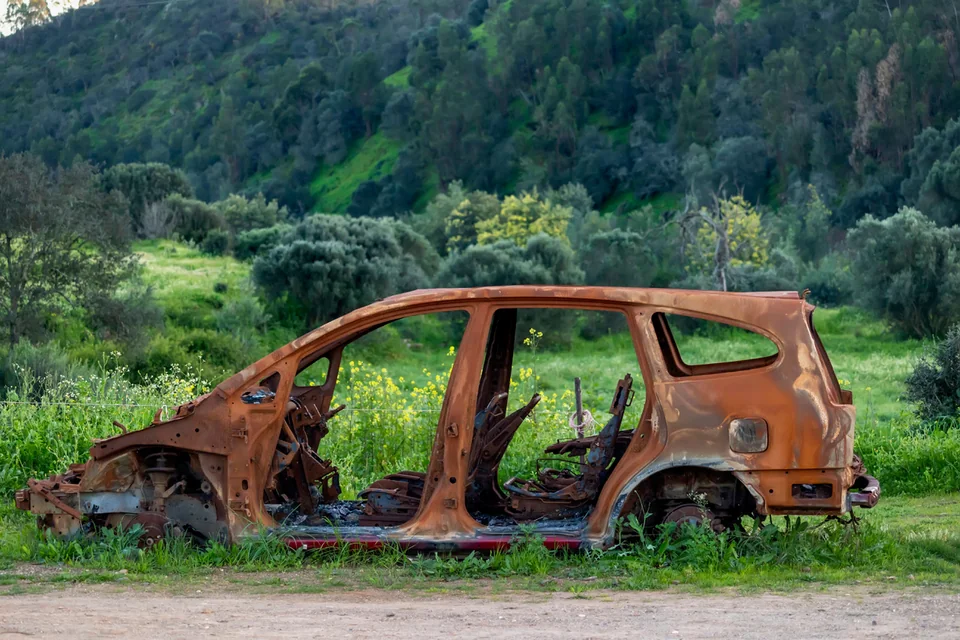
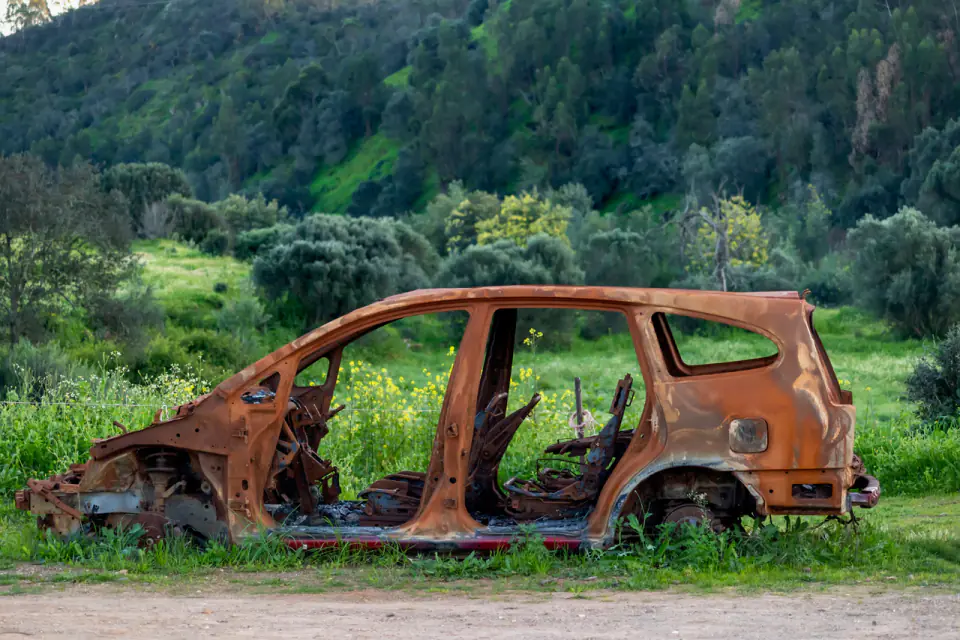
Improve internal linking, clean outbound links and compress covers
- Article content supports links to site pages, opened in the same tab
- Each article gets a "Czytaj też" cross-link to a related article; the
  RODO article links the ebook
- The ebook is linked from the data protection category and the AI/RODO
  practice card
- Remove utm_source=chatgpt.com from sources and tracking parameters
  from the TikTok link
- Clearer practice page title
- Re-encode article cover WebP variants from sRGB-converted originals
  (1647 KB -> 1072 KB, same dimensions and colours); the portrait and
  original JPEGs are unchanged
- Tests cover internal links, ebook links and tracking parameters

Changed region(s): [[0.1562, 0.5938, 0.2188, 0.625]]

diff --git a/src/App.tsx b/src/App.tsx
@@ -100,8 +100,9 @@ const ServicesPage = () => <PageShell><section className="px-5 pb-24 pt-36 md:px
 
 const PracticePage = () => <PageShell><section className="px-5 pb-24 pt-36 md:px-8"><div className="relative selection-boundary mx-auto max-w-7xl"><SectionHeading eyebrow="Praktyka" title="Obszary, w których działam">Każda sprawa jest analizowana indywidualnie, z uwzględnieniem jej celu, ryzyka i dokumentów.</SectionHeading><div className="grid gap-4 md:grid-cols-2 xl:grid-cols-3">{practiceAreas.map((area, index) => {
   const Icon = area.icon;
-  const content = practiceContent[area.slug as keyof typeof practiceContent];
+  const content = practiceContent[area.slug];
   const category = content.category ? findCategoryByName(content.category) : undefined;
+  const ebook = ebooks.find(item => item.id === content.ebookId);
   return <article id={area.slug} key={area.title} style={entranceStyle(index * 0.06)} className={`page-enter relative selection-boundary scroll-mt-28 grid min-h-60 gap-y-0 border p-7 md:row-span-6 md:grid-rows-subgrid ${index === 0 ? 'border-[#ebc256] bg-[#ebc256] text-[#111113]' : 'border-white/10 bg-[#1a1a1e] text-white'}`}>
     <Icon className="h-9 w-9" strokeWidth={1.7} />
     <p className={`mb-3 mt-8 text-xs font-black uppercase ${index === 0 ? 'text-[#111113]/60' : 'text-[#ebc256]'}`}>0{index + 1}</p>
@@ -113,6 +114,7 @@ const PracticePage = () => <PageShell><section className="px-5 pb-24 pt-36 md:px
     <div className="mt-6 flex flex-wrap content-start items-start gap-x-5 gap-y-3 text-xs font-black uppercase">
       <a href={servicesEnabled ? '/uslugi/' : mailto(`Zapytanie: ${area.title}`)} className="underline underline-offset-4">{servicesEnabled ? 'Zakres usług' : 'Opisz swoją sprawę'}</a>
       {category && <a href={categoryPath(category)} className="underline underline-offset-4">Artykuły i przykłady</a>}
+      {ebook && <a href={ebookPath(ebook)} className="underline underline-offset-4">E-book o RODO</a>}
     </div>
   </article>;
 })}</div></div></section></PageShell>;
@@ -147,17 +149,20 @@ const BlogPage = ({ category }: { category?: BlogCategory }) => {
     window.history.pushState(null, '', href);
     window.dispatchEvent(new PopStateEvent('popstate'));
   };
-  return <PageShell><section className="px-5 pb-24 pt-36 md:px-8"><div className="relative selection-boundary mx-auto max-w-7xl"><SectionHeading eyebrow="Blog" title={category?.name || "Prawo w życiu codziennym"}>{category && <div className="space-y-4">{category.paragraphs.map(paragraph => <p key={paragraph}>{paragraph}</p>)}</div>}</SectionHeading><div className="mb-12 border-y border-white/10 py-5"><p className="mb-4 text-[10px] font-black uppercase text-[#77777f]">Wybierz obszar</p><div className="grid gap-2 sm:grid-cols-2 lg:grid-cols-3" aria-label="Kategorie artykułów">{blogCategories.map((category, index) => { const count = category === 'Wszystkie' ? blogPosts.length : blogPosts.filter((post) => post.category === category).length; const active = category === activeCategory; return <a key={category} data-blog-category={category} href={category === 'Wszystkie' ? '/blog/' : categoryPath(findCategoryByName(category)!)} aria-current={active ? 'page' : undefined} onClick={event => {
+  return <PageShell><section className="px-5 pb-24 pt-36 md:px-8"><div className="relative selection-boundary mx-auto max-w-7xl"><SectionHeading eyebrow="Blog" title={category?.name || "Prawo w życiu codziennym"}>{category && <div className="space-y-4">{category.paragraphs.map(paragraph => <p key={paragraph}>{paragraph}</p>)}{ebooks.filter(ebook => ebook.blogCategory === category.name).map(ebook => <p key={ebook.id}><a href={ebookPath(ebook)} className="inline-flex items-center gap-2 font-bold text-[#ebc256] underline underline-offset-4 hover:text-white">E-book: {ebook.title}<ArrowRight className="h-4 w-4 shrink-0" /></a></p>)}</div>}</SectionHeading><div className="mb-12 border-y border-white/10 py-5"><p className="mb-4 text-[10px] font-black uppercase text-[#77777f]">Wybierz obszar</p><div className="grid gap-2 sm:grid-cols-2 lg:grid-cols-3" aria-label="Kategorie artykułów">{blogCategories.map((category, index) => { const count = category === 'Wszystkie' ? blogPosts.length : blogPosts.filter((post) => post.category === category).length; const active = category === activeCategory; return <a key={category} data-blog-category={category} href={category === 'Wszystkie' ? '/blog/' : categoryPath(findCategoryByName(category)!)} aria-current={active ? 'page' : undefined} onClick={event => {
       if (event.button !== 0 || event.metaKey || event.ctrlKey || event.shiftKey || event.altKey) return;
       event.preventDefault();
       selectCategory(category);
     }} className={`group grid min-h-14 w-full grid-cols-[2rem_1fr_2rem] items-center gap-3 border px-4 py-3 text-left transition-colors ${active ? 'border-[#ebc256] bg-[#ebc256] text-[#111113]' : 'border-white/10 bg-[#17171a] text-white hover:border-[#ebc256]'}`}><span className={`text-[10px] font-black ${active ? 'text-[#111113]/55' : 'text-[#ebc256]'}`}>{String(index + 1).padStart(2, '0')}</span><span className="text-xs font-black uppercase leading-snug">{category}</span><span className={`flex h-7 w-7 items-center justify-center text-[10px] font-black ${active ? 'bg-[#111113] text-white' : 'bg-white/10 text-[#b7b7bd]'}`}>{count}</span></a>; })}</div></div><motion.p layout className="mb-5 text-sm text-[#8f8f96]">{visiblePosts.length} {articleWord(visiblePosts.length)} w kategorii <strong className="text-white">{activeCategory.toLowerCase()}</strong></motion.p><motion.div layout className="grid gap-5 md:grid-cols-2 xl:grid-cols-3"><AnimatePresence mode="popLayout" initial={false}>{visiblePosts.map((post) => <motion.article layout key={post.slug} initial={{ opacity: 0, y: 18 }} animate={{ opacity: 1, y: 0 }} exit={{ opacity: 0, scale: 0.97 }} transition={{ duration: reduceMotion ? 0 : 0.28 }}><BlogCard post={post} /></motion.article>)}</AnimatePresence></motion.div></div></section></PageShell>;
 };
 
-const renderInline = (text: string) => text.split(/(\*\*.*?\*\*|\[[^\]]+\]\(https?:\/\/[^)]+\)|\*[^*\n]+\*)/g).map((part, index) => {
+// Links to "/..." stay on the site; full addresses open sources in a new tab.
+const renderInline = (text: string) => text.split(/(\*\*.*?\*\*|\[[^\]]+\]\((?:https?:\/\/|\/)[^)]+\)|\*[^*\n]+\*)/g).map((part, index) => {
+  const link = part.match(/^\[([^\]]+)\]\(((?:https?:\/\/|\/)[^)]+)\)$/);
+  const linkClass = 'font-bold text-[#ebc256] underline decoration-1 underline-offset-4 hover:text-white';
+  if (link?.[2].startsWith('/')) return <a key={index} href={link[2]} className={linkClass}>{link[1]}</a>;
+  if (link) return <a key={index} href={link[2]} target="_blank" rel="noreferrer" className={linkClass}>{link[1]}</a>;
   if (part.startsWith('**') && part.endsWith('**')) return <strong key={index} className="font-black text-white">{part.slice(2, -2)}</strong>;
-  const link = part.match(/^\[([^\]]+)\]\((https?:\/\/[^)]+)\)$/);
-  if (link) return <a key={index} href={link[2]} target="_blank" rel="noreferrer" className="font-bold text-[#ebc256] underline decoration-1 underline-offset-4 hover:text-white">{link[1]}</a>;
   if (part.startsWith('*') && part.endsWith('*')) return <em key={index}>{part.slice(1, -1)}</em>;
   return part;
 });

diff --git a/src/data/blogPosts.ts b/src/data/blogPosts.ts
@@ -54,6 +54,8 @@ Klauzula sumienia chroni lekarza wtedy, gdy jest używana rzetelnie. Najbezpiecz
 
 Powinien też pamiętać, że klauzula sumienia nie zastępuje obowiązku działania zgodnie z aktualną wiedzą medyczną, należytą starannością i zasadami etyki zawodowej. Dobrze użyta klauzula sumienia nie jest ucieczką od odpowiedzialności. Jest prawną ochroną lekarza w sytuacji, w której państwo nie może wymagać wykonania każdego świadczenia wbrew jego sumieniu.
 
+**Czytaj też:** [Usunięcie zęba a zgoda pacjenta – analiza sprawy medycznej](/blog/najtaniej-jest-wyrwac/) oraz [Prawo do intymności i godności pacjenta w szpitalu](/blog/o-prawie-do-intymnosci-i-godnosci-w-szpitalu/)
+
 ## Bibliografia
 
 Art. 30 i art. 39 [ustawy o zawodach lekarza i lekarza dentysty](https://eli.gov.pl/eli/DU/1997/152/ogl), art. 53 [Konstytucji RP](https://eli.gov.pl/eli/DU/1997/483/ogl) oraz [wyrok Trybunału Konstytucyjnego z 7 października 2015 r., K 12/14](https://ipo.trybunal.gov.pl/ipo/view/sprawa.xhtml?dokument=13021&sprawa=13434).
@@ -139,6 +141,8 @@ Załóżmy, że umiera mężczyzna, który nie miał żony, dzieci ani testament
 
 Nie dziedziczy automatycznie partnerka, nawet jeżeli mieszkała z nim przez wiele lat. Nie dziedziczy też przyjaciel, który opiekował się nim w chorobie. Prawo ustawowe patrzy na formalne więzi rodzinne, a nie na to, kto był najbliżej emocjonalnie. Jeżeli zmarły chciałby zabezpieczyć partnerkę, powinien sporządzić testament. Bez testamentu spadek idzie według ustawowej kolejności.
 
+**Czytaj też:** [Mediacja a sprawa w sądzie – dwie drogi rozwiązywania sporu](/blog/mediacja-a-sprawa-w-sadzie-dwie-drogi-rozwiazywania-sporu/)
+
 ## Bibliografia
 
 Art. 926, art. 927, art. 931, art. 932, art. 933, art. 934 i art. 935 [Kodeksu cywilnego](https://eli.gov.pl/eli/DU/1964/93/ogl) oraz art. 31 [Kodeksu rodzinnego i opiekuńczego](https://eli.gov.pl/eli/DU/1964/59/ogl).
@@ -190,6 +194,8 @@ Ważną zasadą jest poufność. To, co strony mówią w mediacji, co do zasady 
 Mediację można porównać do szybszej drogi osiągnięcia porozumienia przed sądem, może zakończyć się ona ugodą albo - w zależności od stron - brakiem porozumienia. Jeżeli strony zawrą ugodę przed mediatorem, mogą wystąpić do sądu o jej zatwierdzenie. Po zatwierdzeniu przez sąd ugoda mediatora ma moc prawną ugody zawartej przed sądem, a jeżeli nadaje się do egzekucji, sąd zatwierdza ją przez nadanie klauzuli wykonalności.
 
 Sąd nie zatwierdzi jednak ugody, jeżeli jest sprzeczna z prawem, zasadami współżycia społecznego, zmierza do obejścia prawa, jest niezrozumiała albo zawiera sprzeczności. Dlatego mediacja nie jest drogą „poza prawem”. To raczej szansa na rozwiązanie sporu szybciej, spokojniej i bardziej po ludzku, ale nadal w granicach obowiązujących przepisów.
+
+**Czytaj też:** [Dziedziczenie ustawowe – kto dostaje spadek, gdy nie ma testamentu](/blog/dziedziczenie-ustawowe-kto-dostaje-spadek-gdy-nie-ma-testamentu/) oraz [Auto po zakupie okazało się miną – co może zrobić kupujący](/blog/auto-po-zakupie-okazalo-sie-mina-co-moze-zrobic-kupujacy/)
 
 **Niniejszy artykuł ma charakter informacyjny i nie stanowi porady prawnej.**
 
@@ -246,6 +252,8 @@ Jeżeli KOWR składa takie oświadczenie, wchodzi w miejsce kupującego i nabywa
 Sprzedaż nieruchomości rolnej z pominięciem ustawowego prawa pierwokupu nie jest zwykłym błędem technicznym. Może skutkować **nieważnością czynności prawnej**, czyli w praktyce cofnięciem wszelkich czynności do stanu poprzedniego.
 
 Dlatego przed podpisaniem umowy warto sprawdzić przeznaczenie nieruchomości, jej powierzchnię, status kupującego, ewentualną dzierżawę i możliwe wyjątki ustawowe. W obrocie ziemią rolną bezpieczeństwo transakcji zaczyna się nie przy akcie notarialnym, ale dużo wcześniej.
+
+**Czytaj też:** [Dziedziczenie ustawowe – kto dostaje spadek, gdy nie ma testamentu](/blog/dziedziczenie-ustawowe-kto-dostaje-spadek-gdy-nie-ma-testamentu/)
 
 **Niniejszy artykuł ma charakter informacyjny i nie stanowi porady prawnej.**
 

diff --git a/src/data/autoPoZakupie.ts b/src/data/autoPoZakupie.ts
@@ -107,21 +107,23 @@ Nie każda kontrolka po zakupie jest ukrytą wadą. Nie każdy wyciek w starym s
 
 Tego typu sprawy polegają na pokazaniu, że wada była istotna, ukryta, niezgodna z umową albo z zapewnieniami, a jej źródło nie pojawiło się dopiero po zakupie.
 
+**Czytaj też:** [Mediacja a sprawa w sądzie – dwie drogi rozwiązywania sporu](/blog/mediacja-a-sprawa-w-sadzie-dwie-drogi-rozwiazywania-sporu/)
+
 **Autor: mgr prawa Karolina Zdrojek**
 
 **Niniejszy artykuł ma charakter informacyjny i nie stanowi porady prawnej.**
 
 ## Bibliografia
 
-- Art. 43a ustawy o prawach konsumenta, brak zgodności towaru z umową. ([Lexlege](https://lexlege.pl/ustawa-o-prawach-konsumenta/art-43a/?utm_source=chatgpt.com))
-- Art. 43b ustawy o prawach konsumenta, kryteria zgodności towaru z umową oraz obowiązek wyraźnego poinformowania konsumenta o konkretnej cesze odbiegającej od zgodności. ([Lexlege](https://lexlege.pl/ustawa-o-prawach-konsumenta/art-43b/?utm_source=chatgpt.com))
-- Art. 43c ustawy o prawach konsumenta, odpowiedzialność przedsiębiorcy i domniemanie istnienia braku zgodności. ([Lexlege](https://lexlege.pl/ustawa-o-prawach-konsumenta/art-43c/?utm_source=chatgpt.com))
-- Art. 43d ustawy o prawach konsumenta, naprawa albo wymiana towaru. ([Lexlege](https://lexlege.pl/ustawa-o-prawach-konsumenta/art-43d/?utm_source=chatgpt.com))
-- Art. 43e ustawy o prawach konsumenta, obniżenie ceny albo odstąpienie od umowy. ([Lexlege](https://lexlege.pl/ustawa-o-prawach-konsumenta/art-43e/?utm_source=chatgpt.com))
-- Art. 556 Kodeksu cywilnego, odpowiedzialność sprzedawcy z tytułu rękojmi. ([Lexlege](https://lexlege.pl/kc/art-556/?utm_source=chatgpt.com))
-- Art. 558 Kodeksu cywilnego, wyłączenie lub ograniczenie rękojmi i podstępne zatajenie wady. ([Lexlege](https://lexlege.pl/kc/art-558/?utm_source=chatgpt.com))
-- Art. 559 Kodeksu cywilnego, odpowiedzialność za wady istniejące w chwili przejścia niebezpieczeństwa albo wynikłe z przyczyny tkwiącej w rzeczy w tej samej chwili. ([pb.pl](https://lexlege.pb.pl/kodeks-cywilny/dzial-ii-rekojmia-za-wady/2006?utm_source=chatgpt.com))
-- Art. 560 Kodeksu cywilnego, obniżenie ceny albo odstąpienie od umowy. ([Lexlege](https://lexlege.pl/kc/art-560/?utm_source=chatgpt.com))
+- Art. 43a ustawy o prawach konsumenta, brak zgodności towaru z umową. ([Lexlege](https://lexlege.pl/ustawa-o-prawach-konsumenta/art-43a/))
+- Art. 43b ustawy o prawach konsumenta, kryteria zgodności towaru z umową oraz obowiązek wyraźnego poinformowania konsumenta o konkretnej cesze odbiegającej od zgodności. ([Lexlege](https://lexlege.pl/ustawa-o-prawach-konsumenta/art-43b/))
+- Art. 43c ustawy o prawach konsumenta, odpowiedzialność przedsiębiorcy i domniemanie istnienia braku zgodności. ([Lexlege](https://lexlege.pl/ustawa-o-prawach-konsumenta/art-43c/))
+- Art. 43d ustawy o prawach konsumenta, naprawa albo wymiana towaru. ([Lexlege](https://lexlege.pl/ustawa-o-prawach-konsumenta/art-43d/))
+- Art. 43e ustawy o prawach konsumenta, obniżenie ceny albo odstąpienie od umowy. ([Lexlege](https://lexlege.pl/ustawa-o-prawach-konsumenta/art-43e/))
+- Art. 556 Kodeksu cywilnego, odpowiedzialność sprzedawcy z tytułu rękojmi. ([Lexlege](https://lexlege.pl/kc/art-556/))
+- Art. 558 Kodeksu cywilnego, wyłączenie lub ograniczenie rękojmi i podstępne zatajenie wady. ([Lexlege](https://lexlege.pl/kc/art-558/))
+- Art. 559 Kodeksu cywilnego, odpowiedzialność za wady istniejące w chwili przejścia niebezpieczeństwa albo wynikłe z przyczyny tkwiącej w rzeczy w tej samej chwili. ([pb.pl](https://lexlege.pb.pl/kodeks-cywilny/dzial-ii-rekojmia-za-wady/2006))
+- Art. 560 Kodeksu cywilnego, obniżenie ceny albo odstąpienie od umowy. ([Lexlege](https://lexlege.pl/kc/art-560/))
 - Art. 561 Kodeksu cywilnego, żądanie usunięcia wady albo wymiany rzeczy. ([Kodeks cywilny - źródło urzędowe ELI](https://eli.gov.pl/eli/DU/1964/93/ogl))
 - [Ustawa o prawach konsumenta - źródło urzędowe ELI](https://eli.gov.pl/eli/DU/2014/827/ogl).
 - Zdjęcie: [magnific.com](https://www.magnific.com)`,

diff --git a/src/data/najtaniejJestWyrwac.ts b/src/data/najtaniejJestWyrwac.ts
@@ -74,6 +74,8 @@ Art. 16 ustawy o prawach pacjenta przyznaje pacjentowi prawo do wyrażenia zgody
 
 Precyzja jest ważna dla obu stron. Pacjentowi pozwala zachować godność i sprawczość. Lekarzowi pozwala wykazać, że wyjaśnił ryzyko i nie zaniechał pomocy. Jeżeli pacjent odmawia ekstrakcji, ale zgadza się na inne postępowanie, należy opisać, czego odmówił, na co był gotów się zgodzić, jakie ryzyka omówiono, jakie alternatywy przedstawiono i jakie zalecono dalsze działania. Krótka formuła „pacjent nie wyraża zgody na leczenie” może być wygodna, ale w sprawach spornych bywa zbyt szeroka i zbyt krzywdząca.
 
+**Czytaj też:** [Klauzula sumienia lekarza – kiedy można odmówić wykonania świadczenia](/blog/klauzula-sumienia-lekarza-kiedy-mozna-odmowic-wykonania-swiadczenia/)
+
 ## Tomografia, hospitalizacja i „100 procent” usunięcia zęba.
 
 Szczególnej analizy wymaga stwierdzenie lekarza: „Jak Pan chce, to damy skierowanie na tomografię, zrobimy i zobaczymy fizycznie, gdzie to jest, ale im większa szansa na przyjęcie do nas, to wtedy na 100% ten ząb jest do usunięcia”. Dla pacjenta taki komunikat jest niejasny, bo łączy kilka różnych kwestii w jedno zdanie: diagnostykę obrazową, ewentualne przyjęcie do placówki i decyzję o nieodwracalnym usunięciu zęba. Pacjent może nie wiedzieć, czy tomografia ma służyć realnej ocenie sytuacji i poszukiwaniu najlepszego leczenia, czy jedynie potwierdzeniu decyzji, która została już z góry przyjęta.
@@ -97,6 +99,8 @@ Zgoda poinformowana oznacza decyzję pacjenta podjętą po uzyskaniu informacji 
 Rzadziej mówi się o odmowie poinformowanej, a w tej sprawie to pojęcie jest kluczowe. Pacjent ma prawo odmówić świadczenia, ale jego odmowa powinna być świadoma. Powinien wiedzieć, co może się stać, jeżeli ropień się powiększy, jeżeli zakażenie obejmie sąsiednie przestrzenie, jeżeli pojawi się szczękościsk, gorączka, duszność, trudności w połykaniu albo pogorszenie stanu ogólnego. Z dokumentacji wynika, że pacjentowi zalecono ponowne zgłoszenie się w razie narastania obrzęku, problemów z przełykaniem lub oddychaniem. To ważne. Ale informacja o ryzyku odmowy nie jest jeszcze informacją o alternatywach.
 
 Lekarz powinien umieć powiedzieć: istnieje wariant A, który rekomenduję, bo daje największą szansę opanowania infekcji, praktycznie od razu. Istnieje wariant B, który może być mniej radykalny, ale niesie takie ryzyko. Wariant C uważam za niedopuszczalny, bo zagraża zdrowiu. Dopiero wtedy pacjent rozumie, czy naprawdę stoi przed wyborem, czy tylko przed koniecznością zaakceptowania jednej procedury. Sąd Najwyższy w orzecznictwie dotyczącym obowiązku informacyjnego wskazywał, że jeżeli istnieją alternatywne metody diagnostyczne lub lecznicze, pacjent powinien zostać o nich poinformowany, bo to pacjent ponosi konsekwencje wyboru metody.
+
+**Czytaj też:** [Prawo do intymności i godności pacjenta w szpitalu](/blog/o-prawie-do-intymnosci-i-godnosci-w-szpitalu/)
 
 ## Granica między rekomendacją, a naciskiem.
 

diff --git a/src/data/site.ts b/src/data/site.ts
@@ -8,7 +8,7 @@ export const siteUrl = 'https://pismowsprawie.pl';
 export const siteName = 'Pismo w Sprawie';
 export const authorName = 'Karolina Zdrojek';
 export const contactEmail = 'pismowsprawie@gmail.com';
-export const tiktokUrl = 'https://www.tiktok.com/@pismowsprawie?_r=1&_t=ZN-97Er7B8gTdW';
+export const tiktokUrl = 'https://www.tiktok.com/@pismowsprawie';
 export const defaultCover = '/karolina-zdrojek.jpg';
 export const defaultShareImage = { url: '/og-image.jpg', width: 1200, height: 630, alt: 'Pismo w Sprawie - prawo po Twojej stronie' };
 export const mailto = (subject?: string) => `mailto:${contactEmail}${subject ? `?subject=${encodeURIComponent(subject)}` : ''}`;
@@ -46,7 +46,7 @@ export const standardPages: Record<string, PageMetadata> = {
   '/': { title: 'Prawne wsparcie i precyzyjne pisma prawne', description: 'Pisma prawne, wezwania, odwołania, analiza umów i doradztwo prawne przygotowane jasno, konkretnie i z myślą o realnym celu Twojej sprawy.' },
   ...(servicesEnabled ? { '/uslugi': servicesMetadata } : {}),
   '/o-mnie': { title: 'O mnie - Karolina Zdrojek, prawnik', description: 'Karolina Zdrojek - prawnik i założycielka Pismo w Sprawie. Specjalizacja w prawie medycznym, obsłudze dokumentacji prawnej i analizie umów.' },
-  '/praktyka': { title: 'Obszary praktyki - AI, medyczne i spadkowe', description: 'Prawo sztucznej inteligencji, AI Act i RODO, prawo medyczne, spadkowe i nieruchomości, legal tech i cyberbezpieczeństwo oraz mediacje. Poznaj obszary praktyki.' },
+  '/praktyka': { title: 'Obszary praktyki - prawo AI, medyczne i spadkowe', description: 'Prawo sztucznej inteligencji, AI Act i RODO, prawo medyczne, spadkowe i nieruchomości, legal tech i cyberbezpieczeństwo oraz mediacje. Poznaj obszary praktyki.' },
   '/blog': { title: 'Blog prawny - prawo w życiu codziennym', description: 'Praktyczne artykuły i analizy prawne: prawo medyczne, prawa pacjenta, RODO, rękojmia przy zakupie auta, dziedziczenie ustawowe i mediacje.' },
   '/kontakt': { title: 'Kontakt - opisz sprawę i otrzymaj wycenę', description: `Opisz swoją sprawę i otrzymaj indywidualną wycenę oraz proponowany termin realizacji. Skontaktuj się mailowo z Pismo w Sprawie: ${contactEmail}.` },
   '/e-booki': { title: 'E-booki prawne - przewodnik po RODO', description: 'Autorskie publikacje Karoliny Zdrojek. Pobierz praktyczny przewodnik prawny po ochronie danych osobowych w firmie: 66 stron o RODO, przykłady i checklisty.', image: '/ebooks/przewodnik-po-rodo-og.jpg', imageWidth: 1200, imageHeight: 630, imageAlt: 'Okładka e-booka o RODO w firmie' },

diff --git a/tests/site.test.ts b/tests/site.test.ts
@@ -599,5 +599,36 @@ test('Articles expose publication dates and the organization links its social pr
     assert.ok(html.includes(`property="article:modified_time" content="${postModifiedAt(post)}"`), post.slug);
   }
   const organization = (getPageSchema('/')!['@graph'] as Array<Record<string, any>>).find(item => item['@type'] === 'LegalService')!;
-  assert.deepEqual(organization.sameAs, [tiktokUrl.split('?')[0]]);
+  assert.deepEqual(organization.sameAs, [tiktokUrl]);
+  assert.equal(tiktokUrl.includes('?'), false);
+});
+
+test('Articles link to related site pages in their content, in the same tab', () => {
+  const routes = new Set(paths.map(path => pageUrl(path).replace(siteUrl, '')));
+  for (const post of blogPosts) {
+    const targets = [...post.content.matchAll(/\]\((\/[^)]+)\)/g)].map(match => match[1]);
+    assert.ok(targets.length > 0, post.slug);
+    const html = renderToString(createElement(App, { pathname: `/blog/${post.slug}/` }));
+    for (const target of targets) {
+      assert.ok(routes.has(target), `${post.slug}: ${target}`);
+      assert.notEqual(target, `/blog/${post.slug}/`, post.slug);
+      assert.ok(html.includes(`href="${target}" class=`), `${post.slug}: ${target}`);
+      assert.equal(html.includes(`href="${target}" target="_blank"`), false, `${post.slug}: ${target}`);
+    }
+  }
+});
+
+test('The ebook is linked from its blog category, practice area and the RODO article', () => {
+  for (const ebook of ebooks) {
+    const href = `href="${ebookPath(ebook)}"`;
+    const category = blogCategoryPages.find(item => item.name === ebook.blogCategory)!;
+    assert.ok(renderToString(createElement(App, { pathname: categoryPath(category) })).includes(href));
+    assert.ok(renderToString(createElement(App, { pathname: '/praktyka/' })).includes(href));
+  }
+  assert.ok(rodoWPraktyce.content.includes('](/e-booki/przewodnik-po-rodo/)'));
+});
+
+test('Outbound links carry no tracking parameters', () => {
+  for (const post of blogPosts) assert.equal(/[?&](utm_[a-z]+|_t|_r)=/.test(post.content), false, post.slug);
+  assert.equal(tiktokUrl.includes('?'), false);
 });

diff --git a/src/data/intymnoscIGodnosc.ts b/src/data/intymnoscIGodnosc.ts
@@ -96,6 +96,8 @@ W kontekście intymności oznacza to jedno: pacjentka musi rozumieć, co się dz
 
 Milczenie przestraszonej pacjentki nie powinno być wygodnym alibi dla systemu.
 
+**Czytaj też:** [Usunięcie zęba a zgoda pacjenta – analiza sprawy medycznej](/blog/najtaniej-jest-wyrwac/)
+
 ## Pacjentka ma prawo do osoby bliskiej.
 
 W wielu sytuacjach pacjentka może odzyskać głos dzięki obecności osoby bliskiej. Ustawa o prawach pacjenta przewiduje, że na życzenie pacjenta przy udzielaniu świadczeń zdrowotnych może być obecna osoba bliska. Osoba wykonująca zawód medyczny może odmówić obecności osoby bliskiej w przypadku prawdopodobieństwa zagrożenia epidemicznego albo ze względu na bezpieczeństwo zdrowotne pacjenta, a odmowę odnotowuje się w dokumentacji medycznej.
@@ -175,6 +177,8 @@ Art. 36 ustawy o zawodach lekarza i lekarza dentysty mówi wprost, że lekarz po
 To jest szczególnie ważne, gdy w sali znajduje się lekarz o wysokiej pozycji, grupa młodszych lekarzy albo osoby szkolące się. Im większy autorytet osoby prowadzącej badanie, tym trudniej pacjentce zaprotestować. Im większa grupa, tym większe ryzyko uprzedmiotowienia. Im bardziej intymne badanie, tym większy obowiązek ostrożności.
 
 Autorytet lekarza nie polega na tym, że pacjentka milczy. Autorytet lekarza polega na tym, że pacjentka może powiedzieć „boję się” i nie zostanie za to ukarana chłodem.
+
+**Czytaj też:** [Klauzula sumienia lekarza – kiedy można odmówić wykonania świadczenia](/blog/klauzula-sumienia-lekarza-kiedy-mozna-odmowic-wykonania-swiadczenia/)
 
 ## Pacjentka wychodzi ze szpitala nie tylko z wynikiem, ale też z pamięcią.
 

diff --git a/src/data/rodoWPraktyce.ts b/src/data/rodoWPraktyce.ts
@@ -109,6 +109,8 @@ Wiele małych firm działa na dokumentach skopiowanych z internetu. Regulamin od
 
 Jeżeli firma w polityce prywatności pisze, że nie przekazuje danych poza Europejski Obszar Gospodarczy, a jednocześnie korzysta z narzędzi analitycznych, reklamowych, mailingowych albo chmurowych powiązanych z dostawcami spoza EOG, dokument w prost może być nieprawdziwy. Jeżeli pisze, że przechowuje dane „do czasu cofnięcia zgody”, ale w praktyce trzyma je bezterminowo, również tworzy problem. Jeżeli pisze, że klient może łatwo usunąć dane, ale nikt w firmie nie wie, jak obsłużyć takie żądanie, to jest pozór zgodności.
 
+**Czytaj też:** [e-book „Praktyczny przewodnik prawny po ochronie danych osobowych w firmie”](/e-booki/przewodnik-po-rodo/) – 66 stron o RODO w codziennych procesach firmy, z przykładami i checklistami.
+
 ## Przykład pierwszy: sklep internetowy i checkbox na realizację zamówienia.
 
 Sklep internetowy dodaje przy koszyku checkbox: „Wyrażam zgodę na przetwarzanie danych osobowych w celu realizacji zamówienia”. Klient bez zaznaczenia checkboxa nie może kupić produktu. Na pierwszy rzut oka wygląda to bezpiecznie, wystarczy po prostu kliknąć. W praktyce jest to wątpliwe. Realizacja zamówienia opiera się zasadniczo na wykonaniu umowy, a nie na zgodzie. Jeżeli sklep pyta o zgodę, sugeruje klientowi, że może ją cofnąć i zablokować przetwarzanie danych potrzebnych do wykonania umowy albo obowiązków prawnych.

diff --git a/src/data/practiceAreas.ts b/src/data/practiceAreas.ts
@@ -1,8 +1,9 @@
-export const practiceContent = {
+export const practiceContent: Record<string, { description: string; examples: string; category: string | null; ebookId?: string }> = {
   'prawo-sztucznej-inteligencji': {
     description: 'Pomagam analizować dokumentację i umowy związane z wykorzystaniem sztucznej inteligencji oraz przetwarzaniem danych osobowych. Porządkuję pytania dotyczące AI Act i RODO, wskazuję ryzyka wymagające oceny i przygotowuję projekty dokumentów dostosowane do sposobu działania klienta.',
     examples: 'Przykładowe sprawy: analiza zapisów umowy dotyczącej narzędzi AI, przygotowanie klauzul informacyjnych oraz uporządkowanie dokumentacji ochrony danych osobowych.',
     category: 'Ochrona danych osobowych',
+    ebookId: 'przewodnik-po-rodo',
   },
   'prawo-medyczne': {
     description: 'Pomagam uporządkować dokumentację medyczną, stanowisko pacjenta lub podmiotu medycznego oraz pytania wymagające analizy prawnej. Przygotowuję projekty pism i analizuję dokumenty dotyczące informacji o leczeniu, zgody na świadczenie i przebiegu kontaktu z placówką.',

diff --git a/src/data/seo.ts b/src/data/seo.ts
@@ -35,7 +35,7 @@ const legalServiceSchema = {
   image: `${siteUrl}${defaultCover}`, logo: publisherLogo, email: contactEmail,
   ...(servicesEnabled ? { priceRange: services.find(service => service.number === '02')?.price } : {}), founder: authorSchema,
   areaServed: { '@type': 'Country', name: 'Polska' },
-  sameAs: [tiktokUrl.split('?')[0]],
+  sameAs: [tiktokUrl],
 };
 const breadcrumbSchema = (items: Array<{ name: string; path: string }>) => ({
   '@type': 'BreadcrumbList',

diff --git a/src/data/ebooks.ts b/src/data/ebooks.ts
@@ -7,6 +7,7 @@ export const ebooks = [
     updatedAt: '2026-10-17',
     author: 'Karolina Zuzanna Zdrojek',
     category: 'RODO w firmie',
+    blogCategory: 'Ochrona danych osobowych',
     copyrightYear: 2026,
     description: 'Opracowanie dla przedsiębiorców, osób zarządzających i praktyków. Dwadzieścia rozdziałów, przykłady oraz checklisty pomagają uporządkować ochronę danych osobowych w codziennych procesach firmy.',
     topics: [
